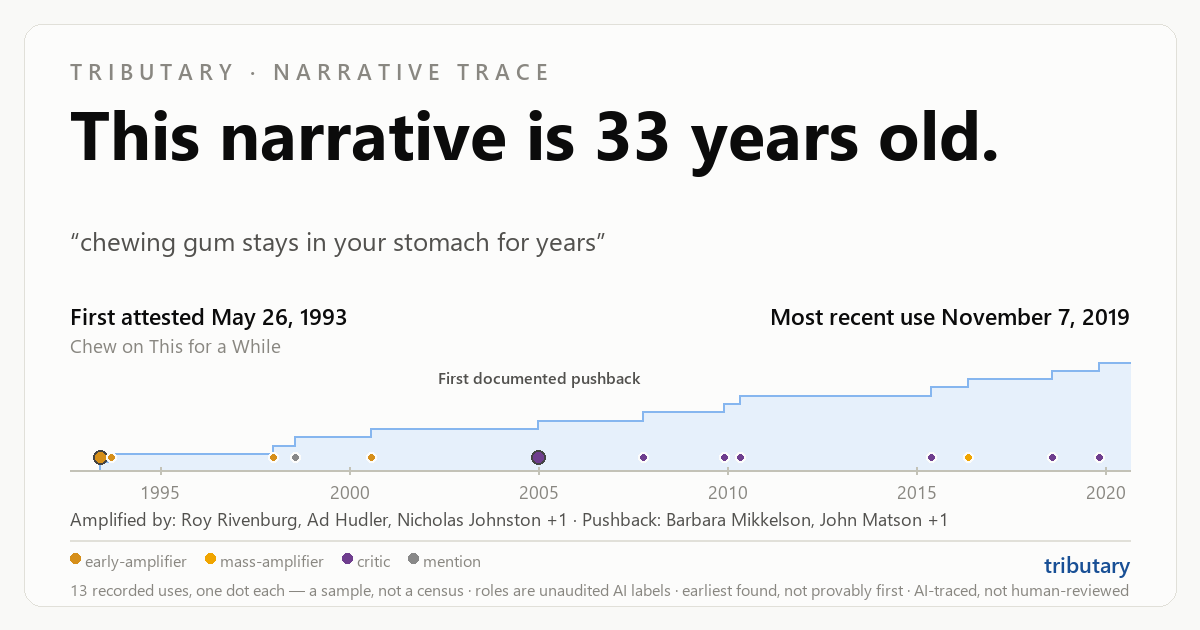
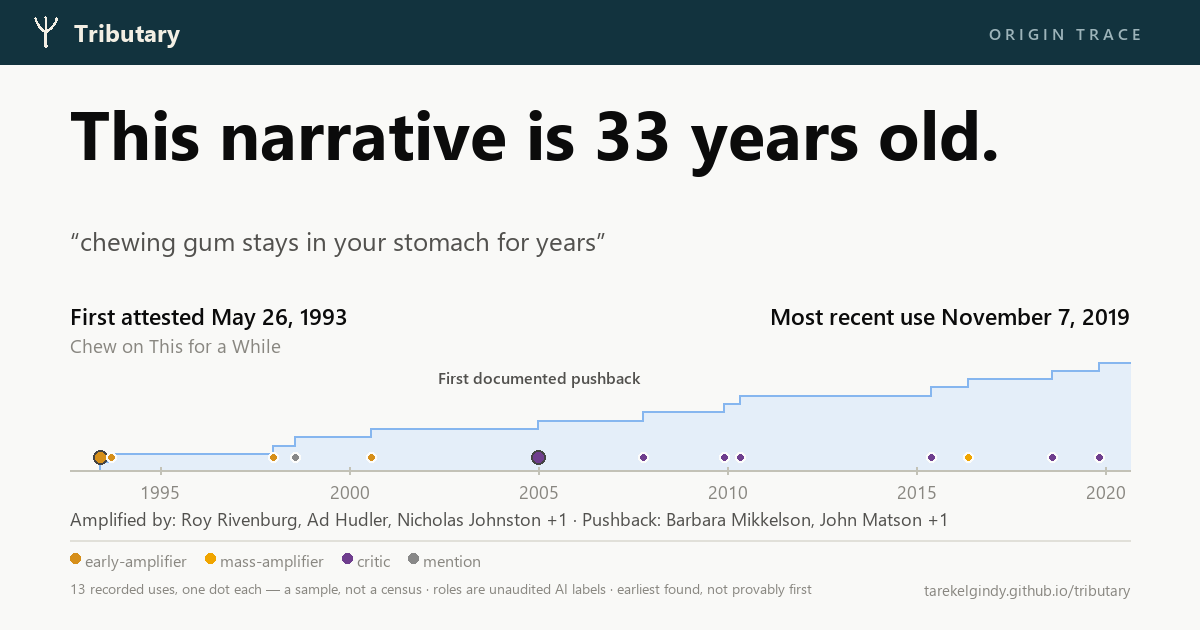
Trace and vs share cards adopt the site identity
Ink band with the confluence glyph ("ORIGIN TRACE" / "CLAIM VS
REBUTTAL"), URL footer replacing the old blue wordmark, upstream-blue
accents on the share pages, and the review-state blanket comes off the
card face per the homepage precedent - the scope hedges stay (sample
not census, unaudited role labels, earliest found not provably first)
and the tap-through honesty paragraphs keep full disclosure. The
WHO-led layout is untouched. Both share-card families now speak one
visual language.

Changed region(s): [[0.0, 0.0, 1.0, 0.1206], [0.0617, 0.8746, 0.9558, 0.9651]]

diff --git a/gallery/cards/vs-4816fc06cff6-25a253481bed.html b/gallery/cards/vs-4816fc06cff6-25a253481bed.html
@@ -41,13 +41,13 @@
   .cardfoot { border-top: 1px solid #e1e0d9; margin-top: 0.9rem; padding-top: 0.65rem;
               font-size: 0.78rem; color: #898781; display: flex; justify-content: space-between;
               flex-wrap: wrap; gap: 0.4rem; }
-  .cta { display: inline-block; margin: 1.3rem 0.9rem 0 0; background: #2a78d6; color: #fff;
+  .cta { display: inline-block; margin: 1.3rem 0.9rem 0 0; background: #2a6fa3; color: #fff;
          text-decoration: none; font-weight: 600; font-size: 0.9rem;
          padding: 0.5rem 1rem; border-radius: 8px; }
   .cta:hover { background: #184f95; }
   .honesty { margin-top: 2.2rem; padding-top: 0.9rem; border-top: 1px solid #e1e0d9;
              color: #898781; font-size: 0.82rem; }
-  .honesty a { color: #2a78d6; text-decoration: none; }
+  .honesty a { color: #2a6fa3; text-decoration: none; }
   svg { width: 100%; height: auto; display: block; margin: 0.6rem 0 0; }
   @media (max-width: 640px) { .headline { font-size: 1.35rem; } }
 </style>
@@ -63,7 +63,7 @@
     <div class="legend"><span class="lg"><span class="lgdot" style="background:#c0392b"></span>originator</span><span class="lg"><span class="lgdot" style="background:#d68f1a"></span>early-amplifier</span><span class="lg"><span class="lgdot" style="background:#f0a500"></span>mass-amplifier</span><span class="lg"><span class="lgdot" style="background:#2a6fa3"></span>institutional-adoption</span><span class="lg"><span class="lgdot" style="background:#6f3e8e"></span>critic</span><span class="lg"><span class="lgdot" style="background:#888888"></span>mention</span><span class="lg"><span class="lgdot" style="background:#bbbbbb"></span>unknown</span></div>
     <div class="cardfoot">
       <span>two separately-sampled traces — dot counts are not comparable volumes · roles are unaudited AI labels · earliest found, not provably first</span>
-      <span>AI-traced, not human-reviewed</span>
+      <span>earliest found, not provably first</span>
     </div>
   </div>
 

diff --git a/gallery/cards/vs-d5e2194ed5ea-8b04de9b0b8e.html b/gallery/cards/vs-d5e2194ed5ea-8b04de9b0b8e.html
@@ -41,13 +41,13 @@
   .cardfoot { border-top: 1px solid #e1e0d9; margin-top: 0.9rem; padding-top: 0.65rem;
               font-size: 0.78rem; color: #898781; display: flex; justify-content: space-between;
               flex-wrap: wrap; gap: 0.4rem; }
-  .cta { display: inline-block; margin: 1.3rem 0.9rem 0 0; background: #2a78d6; color: #fff;
+  .cta { display: inline-block; margin: 1.3rem 0.9rem 0 0; background: #2a6fa3; color: #fff;
          text-decoration: none; font-weight: 600; font-size: 0.9rem;
          padding: 0.5rem 1rem; border-radius: 8px; }
   .cta:hover { background: #184f95; }
   .honesty { margin-top: 2.2rem; padding-top: 0.9rem; border-top: 1px solid #e1e0d9;
              color: #898781; font-size: 0.82rem; }
-  .honesty a { color: #2a78d6; text-decoration: none; }
+  .honesty a { color: #2a6fa3; text-decoration: none; }
   svg { width: 100%; height: auto; display: block; margin: 0.6rem 0 0; }
   @media (max-width: 640px) { .headline { font-size: 1.35rem; } }
 </style>
@@ -63,7 +63,7 @@
     <div class="legend"><span class="lg"><span class="lgdot" style="background:#c0392b"></span>originator</span><span class="lg"><span class="lgdot" style="background:#d68f1a"></span>early-amplifier</span><span class="lg"><span class="lgdot" style="background:#f0a500"></span>mass-amplifier</span><span class="lg"><span class="lgdot" style="background:#2a6fa3"></span>institutional-adoption</span><span class="lg"><span class="lgdot" style="background:#6f3e8e"></span>critic</span><span class="lg"><span class="lgdot" style="background:#888888"></span>mention</span></div>
     <div class="cardfoot">
       <span>two separately-sampled traces — dot counts are not comparable volumes · roles are unaudited AI labels · earliest found, not provably first</span>
-      <span>AI-traced, not human-reviewed</span>
+      <span>earliest found, not provably first</span>
     </div>
   </div>
 

diff --git a/gallery/cards/4816fc06cff6.html b/gallery/cards/4816fc06cff6.html
@@ -44,15 +44,15 @@
   .cardfoot { border-top: 1px solid #e1e0d9; margin-top: 0.9rem; padding-top: 0.65rem;
               font-size: 0.78rem; color: #898781; display: flex; justify-content: space-between;
               flex-wrap: wrap; gap: 0.4rem; }
-  .cta { display: inline-block; margin: 1.3rem 0 0; background: #2a78d6; color: #fff;
+  .cta { display: inline-block; margin: 1.3rem 0 0; background: #2a6fa3; color: #fff;
          text-decoration: none; font-weight: 600; font-size: 0.95rem;
          padding: 0.55rem 1.1rem; border-radius: 8px; }
   .cta:hover { background: #184f95; }
-  .ctx { display: inline-block; margin: 1.3rem 0 0 0.9rem; color: #2a78d6; text-decoration: none;
+  .ctx { display: inline-block; margin: 1.3rem 0 0 0.9rem; color: #2a6fa3; text-decoration: none;
          font-size: 0.9rem; }
   .honesty { margin-top: 2.2rem; padding-top: 0.9rem; border-top: 1px solid #e1e0d9;
              color: #898781; font-size: 0.82rem; }
-  .honesty a { color: #2a78d6; text-decoration: none; }
+  .honesty a { color: #2a6fa3; text-decoration: none; }
   svg { width: 100%; height: auto; display: block; margin: 0.4rem 0 0; }
   @media (max-width: 640px) { .headline { font-size: 1.4rem; } }
 </style>
@@ -60,7 +60,7 @@
 <body>
 <div class="wrap">
   <div class="card">
-    <div class="kicker">Tributary · narrative trace</div>
+    <div class="kicker">Tributary · origin trace</div>
     <div class="eyebrow">Origin · 1985</div>
     <div class="headline">Harris L. Coulter and Barbara Loe Fisher</div>
     <p class="deck">amplified by Thompson, N.P.; Pounder, R.E.; Wakefield, A.J.; Montgomery, S.M., Wakefield AJ, Murch SH, Anthony A, et al. +3 · 41 years old · 17 recorded uses</p>

diff --git a/gallery/cards/25a253481bed.html b/gallery/cards/25a253481bed.html
@@ -44,15 +44,15 @@
   .cardfoot { border-top: 1px solid #e1e0d9; margin-top: 0.9rem; padding-top: 0.65rem;
               font-size: 0.78rem; color: #898781; display: flex; justify-content: space-between;
               flex-wrap: wrap; gap: 0.4rem; }
-  .cta { display: inline-block; margin: 1.3rem 0 0; background: #2a78d6; color: #fff;
+  .cta { display: inline-block; margin: 1.3rem 0 0; background: #2a6fa3; color: #fff;
          text-decoration: none; font-weight: 600; font-size: 0.95rem;
          padding: 0.55rem 1.1rem; border-radius: 8px; }
   .cta:hover { background: #184f95; }
-  .ctx { display: inline-block; margin: 1.3rem 0 0 0.9rem; color: #2a78d6; text-decoration: none;
+  .ctx { display: inline-block; margin: 1.3rem 0 0 0.9rem; color: #2a6fa3; text-decoration: none;
          font-size: 0.9rem; }
   .honesty { margin-top: 2.2rem; padding-top: 0.9rem; border-top: 1px solid #e1e0d9;
              color: #898781; font-size: 0.82rem; }
-  .honesty a { color: #2a78d6; text-decoration: none; }
+  .honesty a { color: #2a6fa3; text-decoration: none; }
   svg { width: 100%; height: auto; display: block; margin: 0.4rem 0 0; }
   @media (max-width: 640px) { .headline { font-size: 1.4rem; } }
 </style>
@@ -60,7 +60,7 @@
 <body>
 <div class="wrap">
   <div class="card">
-    <div class="kicker">Tributary · narrative trace</div>
+    <div class="kicker">Tributary · origin trace</div>
     <div class="eyebrow">Origin · March 1998</div>
     <div class="headline">Medical Research Council Expert Panel, chaired by Professor Sir John Pattison</div>
     <p class="deck">amplified by Multiple authors, Liza Gross +3 · 28 years old · 15 recorded uses</p>

diff --git a/gallery/cards/d41b17c9e173.html b/gallery/cards/d41b17c9e173.html
@@ -44,15 +44,15 @@
   .cardfoot { border-top: 1px solid #e1e0d9; margin-top: 0.9rem; padding-top: 0.65rem;
               font-size: 0.78rem; color: #898781; display: flex; justify-content: space-between;
               flex-wrap: wrap; gap: 0.4rem; }
-  .cta { display: inline-block; margin: 1.3rem 0 0; background: #2a78d6; color: #fff;
+  .cta { display: inline-block; margin: 1.3rem 0 0; background: #2a6fa3; color: #fff;
          text-decoration: none; font-weight: 600; font-size: 0.95rem;
          padding: 0.55rem 1.1rem; border-radius: 8px; }
   .cta:hover { background: #184f95; }
-  .ctx { display: inline-block; margin: 1.3rem 0 0 0.9rem; color: #2a78d6; text-decoration: none;
+  .ctx { display: inline-block; margin: 1.3rem 0 0 0.9rem; color: #2a6fa3; text-decoration: none;
          font-size: 0.9rem; }
   .honesty { margin-top: 2.2rem; padding-top: 0.9rem; border-top: 1px solid #e1e0d9;
              color: #898781; font-size: 0.82rem; }
-  .honesty a { color: #2a78d6; text-decoration: none; }
+  .honesty a { color: #2a6fa3; text-decoration: none; }
   svg { width: 100%; height: auto; display: block; margin: 0.4rem 0 0; }
   @media (max-width: 640px) { .headline { font-size: 1.4rem; } }
 </style>
@@ -60,7 +60,7 @@
 <body>
 <div class="wrap">
   <div class="card">
-    <div class="kicker">Tributary · narrative trace</div>
+    <div class="kicker">Tributary · origin trace</div>
     <div class="eyebrow">Origin · December 22, 1940</div>
     <div class="headline">British Ministry of Agriculture</div>
     <p class="deck">amplified by Washington Post staff, New York Times London bureau +3 · 85 years old · 13 recorded uses</p>

diff --git a/gallery/cards/43b77b4eda56.html b/gallery/cards/43b77b4eda56.html
@@ -44,15 +44,15 @@
   .cardfoot { border-top: 1px solid #e1e0d9; margin-top: 0.9rem; padding-top: 0.65rem;
               font-size: 0.78rem; color: #898781; display: flex; justify-content: space-between;
               flex-wrap: wrap; gap: 0.4rem; }
-  .cta { display: inline-block; margin: 1.3rem 0 0; background: #2a78d6; color: #fff;
+  .cta { display: inline-block; margin: 1.3rem 0 0; background: #2a6fa3; color: #fff;
          text-decoration: none; font-weight: 600; font-size: 0.95rem;
          padding: 0.55rem 1.1rem; border-radius: 8px; }
   .cta:hover { background: #184f95; }
-  .ctx { display: inline-block; margin: 1.3rem 0 0 0.9rem; color: #2a78d6; text-decoration: none;
+  .ctx { display: inline-block; margin: 1.3rem 0 0 0.9rem; color: #2a6fa3; text-decoration: none;
          font-size: 0.9rem; }
   .honesty { margin-top: 2.2rem; padding-top: 0.9rem; border-top: 1px solid #e1e0d9;
              color: #898781; font-size: 0.82rem; }
-  .honesty a { color: #2a78d6; text-decoration: none; }
+  .honesty a { color: #2a6fa3; text-decoration: none; }
   svg { width: 100%; height: auto; display: block; margin: 0.4rem 0 0; }
   @media (max-width: 640px) { .headline { font-size: 1.4rem; } }
 </style>
@@ -60,7 +60,7 @@
 <body>
 <div class="wrap">
   <div class="card">
-    <div class="kicker">Tributary · narrative trace</div>
+    <div class="kicker">Tributary · origin trace</div>
     <div class="eyebrow">Earliest recorded · December 1980</div>
     <div class="headline">Christopher Vecsey; Robert W. Venables</div>
     <p class="deck">amplified by Molly Larkin, Ryan McCostlin +1 · 45 years old · 12 recorded uses</p>

diff --git a/gallery/cards/4e1fa849a987.html b/gallery/cards/4e1fa849a987.html
@@ -44,15 +44,15 @@
   .cardfoot { border-top: 1px solid #e1e0d9; margin-top: 0.9rem; padding-top: 0.65rem;
               font-size: 0.78rem; color: #898781; display: flex; justify-content: space-between;
               flex-wrap: wrap; gap: 0.4rem; }
-  .cta { display: inline-block; margin: 1.3rem 0 0; background: #2a78d6; color: #fff;
+  .cta { display: inline-block; margin: 1.3rem 0 0; background: #2a6fa3; color: #fff;
          text-decoration: none; font-weight: 600; font-size: 0.95rem;
          padding: 0.55rem 1.1rem; border-radius: 8px; }
   .cta:hover { background: #184f95; }
-  .ctx { display: inline-block; margin: 1.3rem 0 0 0.9rem; color: #2a78d6; text-decoration: none;
+  .ctx { display: inline-block; margin: 1.3rem 0 0 0.9rem; color: #2a6fa3; text-decoration: none;
          font-size: 0.9rem; }
   .honesty { margin-top: 2.2rem; padding-top: 0.9rem; border-top: 1px solid #e1e0d9;
              color: #898781; font-size: 0.82rem; }
-  .honesty a { color: #2a78d6; text-decoration: none; }
+  .honesty a { color: #2a6fa3; text-decoration: none; }
   svg { width: 100%; height: auto; display: block; margin: 0.4rem 0 0; }
   @media (max-width: 640px) { .headline { font-size: 1.4rem; } }
 </style>
@@ -60,7 +60,7 @@
 <body>
 <div class="wrap">
   <div class="card">
-    <div class="kicker">Tributary · narrative trace</div>
+    <div class="kicker">Tributary · origin trace</div>
     <div class="eyebrow">Origin · January 9, 2009</div>
     <div class="headline">George W. Bush administration</div>
     <p class="deck">amplified by Heather A. Conley and Caroline Rohloff, ICAS +4 · 17 years old · 15 recorded uses</p>

diff --git a/gallery/cards/2821c6ff8631.html b/gallery/cards/2821c6ff8631.html
@@ -44,15 +44,15 @@
   .cardfoot { border-top: 1px solid #e1e0d9; margin-top: 0.9rem; padding-top: 0.65rem;
               font-size: 0.78rem; color: #898781; display: flex; justify-content: space-between;
               flex-wrap: wrap; gap: 0.4rem; }
-  .cta { display: inline-block; margin: 1.3rem 0 0; background: #2a78d6; color: #fff;
+  .cta { display: inline-block; margin: 1.3rem 0 0; background: #2a6fa3; color: #fff;
          text-decoration: none; font-weight: 600; font-size: 0.95rem;
          padding: 0.55rem 1.1rem; border-radius: 8px; }
   .cta:hover { background: #184f95; }
-  .ctx { display: inline-block; margin: 1.3rem 0 0 0.9rem; color: #2a78d6; text-decoration: none;
+  .ctx { display: inline-block; margin: 1.3rem 0 0 0.9rem; color: #2a6fa3; text-decoration: none;
          font-size: 0.9rem; }
   .honesty { margin-top: 2.2rem; padding-top: 0.9rem; border-top: 1px solid #e1e0d9;
              color: #898781; font-size: 0.82rem; }
-  .honesty a { color: #2a78d6; text-decoration: none; }
+  .honesty a { color: #2a6fa3; text-decoration: none; }
   svg { width: 100%; height: auto; display: block; margin: 0.4rem 0 0; }
   @media (max-width: 640px) { .headline { font-size: 1.4rem; } }
 </style>
@@ -60,7 +60,7 @@
 <body>
 <div class="wrap">
   <div class="card">
-    <div class="kicker">Tributary · narrative trace</div>
+    <div class="kicker">Tributary · origin trace</div>
     <div class="eyebrow">Origin · October 20, 1991</div>
     <div class="headline">Donald L. Barlett and James B. Steele</div>
     <p class="deck">amplified by Bernie Sanders, Elizabeth Warren +3 · 34 years old · 11 recorded uses</p>

diff --git a/gallery/cards/78c85bea510c.html b/gallery/cards/78c85bea510c.html
@@ -44,15 +44,15 @@
   .cardfoot { border-top: 1px solid #e1e0d9; margin-top: 0.9rem; padding-top: 0.65rem;
               font-size: 0.78rem; color: #898781; display: flex; justify-content: space-between;
               flex-wrap: wrap; gap: 0.4rem; }
-  .cta { display: inline-block; margin: 1.3rem 0 0; background: #2a78d6; color: #fff;
+  .cta { display: inline-block; margin: 1.3rem 0 0; background: #2a6fa3; color: #fff;
          text-decoration: none; font-weight: 600; font-size: 0.95rem;
          padding: 0.55rem 1.1rem; border-radius: 8px; }
   .cta:hover { background: #184f95; }
-  .ctx { display: inline-block; margin: 1.3rem 0 0 0.9rem; color: #2a78d6; text-decoration: none;
+  .ctx { display: inline-block; margin: 1.3rem 0 0 0.9rem; color: #2a6fa3; text-decoration: none;
          font-size: 0.9rem; }
   .honesty { margin-top: 2.2rem; padding-top: 0.9rem; border-top: 1px solid #e1e0d9;
              color: #898781; font-size: 0.82rem; }
-  .honesty a { color: #2a78d6; text-decoration: none; }
+  .honesty a { color: #2a6fa3; text-decoration: none; }
   svg { width: 100%; height: auto; display: block; margin: 0.4rem 0 0; }
   @media (max-width: 640px) { .headline { font-size: 1.4rem; } }
 </style>
@@ -60,7 +60,7 @@
 <body>
 <div class="wrap">
   <div class="card">
-    <div class="kicker">Tributary · narrative trace</div>
+    <div class="kicker">Tributary · origin trace</div>
     <div class="eyebrow">Earliest recorded · November 25, 2024</div>
     <div class="headline">CNBC</div>
     <p class="deck">amplified by The Washington Post, Brennan Center for Justice +5 · 22 months old · 14 recorded uses</p>

diff --git a/gallery/cards/95dffd8065ce.html b/gallery/cards/95dffd8065ce.html
@@ -44,15 +44,15 @@
   .cardfoot { border-top: 1px solid #e1e0d9; margin-top: 0.9rem; padding-top: 0.65rem;
               font-size: 0.78rem; color: #898781; display: flex; justify-content: space-between;
               flex-wrap: wrap; gap: 0.4rem; }
-  .cta { display: inline-block; margin: 1.3rem 0 0; background: #2a78d6; color: #fff;
+  .cta { display: inline-block; margin: 1.3rem 0 0; background: #2a6fa3; color: #fff;
          text-decoration: none; font-weight: 600; font-size: 0.95rem;
          padding: 0.55rem 1.1rem; border-radius: 8px; }
   .cta:hover { background: #184f95; }
-  .ctx { display: inline-block; margin: 1.3rem 0 0 0.9rem; color: #2a78d6; text-decoration: none;
+  .ctx { display: inline-block; margin: 1.3rem 0 0 0.9rem; color: #2a6fa3; text-decoration: none;
          font-size: 0.9rem; }
   .honesty { margin-top: 2.2rem; padding-top: 0.9rem; border-top: 1px solid #e1e0d9;
              color: #898781; font-size: 0.82rem; }
-  .honesty a { color: #2a78d6; text-decoration: none; }
+  .honesty a { color: #2a6fa3; text-decoration: none; }
   svg { width: 100%; height: auto; display: block; margin: 0.4rem 0 0; }
   @media (max-width: 640px) { .headline { font-size: 1.4rem; } }
 </style>
@@ -60,7 +60,7 @@
 <body>
 <div class="wrap">
   <div class="card">
-    <div class="kicker">Tributary · narrative trace</div>
+    <div class="kicker">Tributary · origin trace</div>
     <div class="eyebrow">Origin · December 18, 1969</div>
     <div class="headline">John Noble Wilford</div>
     <p class="deck">amplified by Bill Kaysing and Randy Reid, Peter Hyams +3 · 57 years old · 13 recorded uses</p>

diff --git a/gallery/cards/8b04de9b0b8e.html b/gallery/cards/8b04de9b0b8e.html
@@ -44,15 +44,15 @@
   .cardfoot { border-top: 1px solid #e1e0d9; margin-top: 0.9rem; padding-top: 0.65rem;
               font-size: 0.78rem; color: #898781; display: flex; justify-content: space-between;
               flex-wrap: wrap; gap: 0.4rem; }
-  .cta { display: inline-block; margin: 1.3rem 0 0; background: #2a78d6; color: #fff;
+  .cta { display: inline-block; margin: 1.3rem 0 0; background: #2a6fa3; color: #fff;
          text-decoration: none; font-weight: 600; font-size: 0.95rem;
          padding: 0.55rem 1.1rem; border-radius: 8px; }
   .cta:hover { background: #184f95; }
-  .ctx { display: inline-block; margin: 1.3rem 0 0 0.9rem; color: #2a78d6; text-decoration: none;
+  .ctx { display: inline-block; margin: 1.3rem 0 0 0.9rem; color: #2a6fa3; text-decoration: none;
          font-size: 0.9rem; }
   .honesty { margin-top: 2.2rem; padding-top: 0.9rem; border-top: 1px solid #e1e0d9;
              color: #898781; font-size: 0.82rem; }
-  .honesty a { color: #2a78d6; text-decoration: none; }
+  .honesty a { color: #2a6fa3; text-decoration: none; }
   svg { width: 100%; height: auto; display: block; margin: 0.4rem 0 0; }
   @media (max-width: 640px) { .headline { font-size: 1.4rem; } }
 </style>
@@ -60,7 +60,7 @@
 <body>
 <div class="wrap">
   <div class="card">
-    <div class="kicker">Tributary · narrative trace</div>
+    <div class="kicker">Tributary · origin trace</div>
     <div class="eyebrow">Origin · August 1998</div>
     <div class="headline">David E. Milov et al.</div>
     <p class="deck">amplified by Roy Rivenburg, Ad Hudler +2 · 33 years old · 14 recorded uses</p>

diff --git a/gallery/cards/833e80aea1ba.html b/gallery/cards/833e80aea1ba.html
@@ -44,15 +44,15 @@
   .cardfoot { border-top: 1px solid #e1e0d9; margin-top: 0.9rem; padding-top: 0.65rem;
               font-size: 0.78rem; color: #898781; display: flex; justify-content: space-between;
               flex-wrap: wrap; gap: 0.4rem; }
-  .cta { display: inline-block; margin: 1.3rem 0 0; background: #2a78d6; color: #fff;
+  .cta { display: inline-block; margin: 1.3rem 0 0; background: #2a6fa3; color: #fff;
          text-decoration: none; font-weight: 600; font-size: 0.95rem;
          padding: 0.55rem 1.1rem; border-radius: 8px; }
   .cta:hover { background: #184f95; }
-  .ctx { display: inline-block; margin: 1.3rem 0 0 0.9rem; color: #2a78d6; text-decoration: none;
+  .ctx { display: inline-block; margin: 1.3rem 0 0 0.9rem; color: #2a6fa3; text-decoration: none;
          font-size: 0.9rem; }
   .honesty { margin-top: 2.2rem; padding-top: 0.9rem; border-top: 1px solid #e1e0d9;
              color: #898781; font-size: 0.82rem; }
-  .honesty a { color: #2a78d6; text-decoration: none; }
+  .honesty a { color: #2a6fa3; text-decoration: none; }
   svg { width: 100%; height: auto; display: block; margin: 0.4rem 0 0; }
   @media (max-width: 640px) { .headline { font-size: 1.4rem; } }
 </style>
@@ -60,7 +60,7 @@
 <body>
 <div class="wrap">
   <div class="card">
-    <div class="kicker">Tributary · narrative trace</div>
+    <div class="kicker">Tributary · origin trace</div>
     <div class="eyebrow">Origin · July 6, 2026</div>
     <div class="headline">Politico</div>
     <p class="deck">amplified by Randy Billings, The Washington Post +4 · 2 months old · 15 recorded uses</p>
